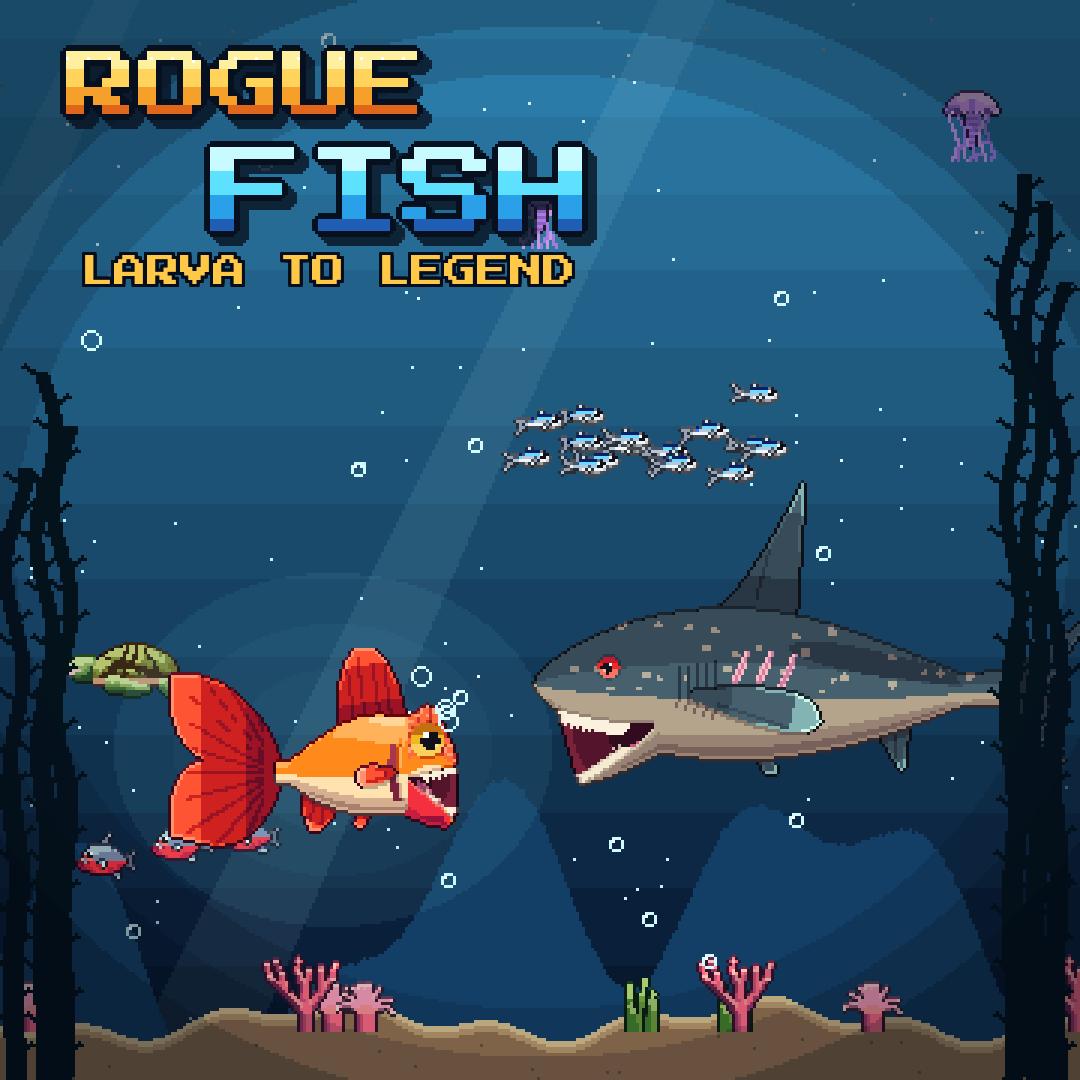
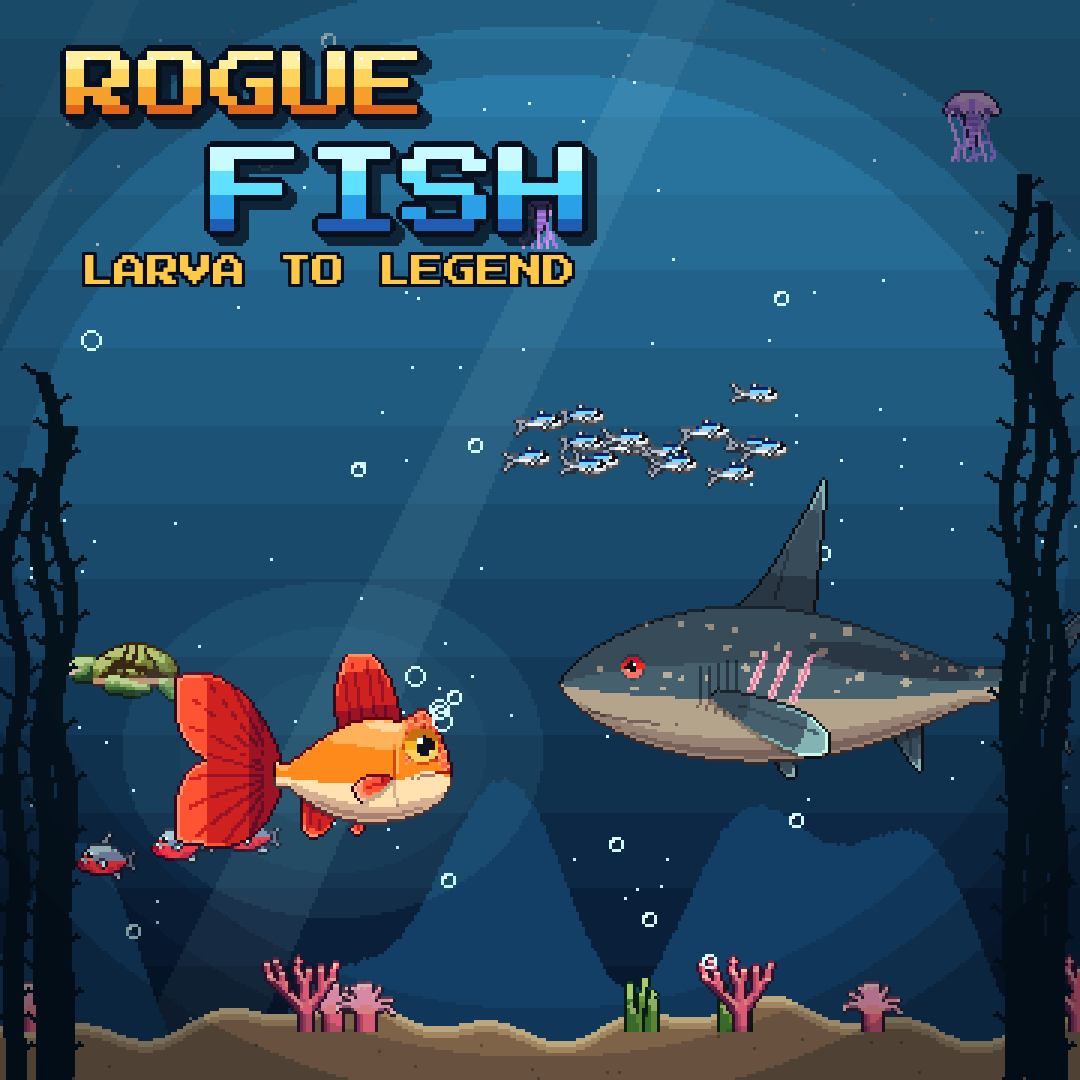
Marketing: key art with closed-mouth swim poses
Claude-Session: https://claude.ai/code/session_012YxboaSgqFFg7NS2D9BoLS

diff --git a/tools/marketing/keyart.py b/tools/marketing/keyart.py
@@ -71,9 +71,9 @@ def cast_scene(w, h, focus_x, seed=3, bed=None):
 
 def hero(w, h, k, with_logo, name, px, py, mx, my, logo_xy=None, tag=True, logo_w=None):
     im = cast_scene(w, h, px)
-    meg = flip(sheet_frame("creatures/megalodon", 7))
+    meg = flip(sheet_frame("creatures/megalodon", 2))
     paste(im, meg, mx, my)
-    fish = trim(player_frame("dourado", 4, 7, ["tail", "fins_back", "body+head_piranha", "fins_front"]))
+    fish = trim(player_frame("dourado", 4, 2))
     glow(im, px + 6, py, fish.width * 0.75)
     paste(im, fish, px, py)
     bubbles(im, 8, 11, (int(px + fish.width * 0.3), int(py - 30), int(px + fish.width * 0.6), int(py - 6)))
